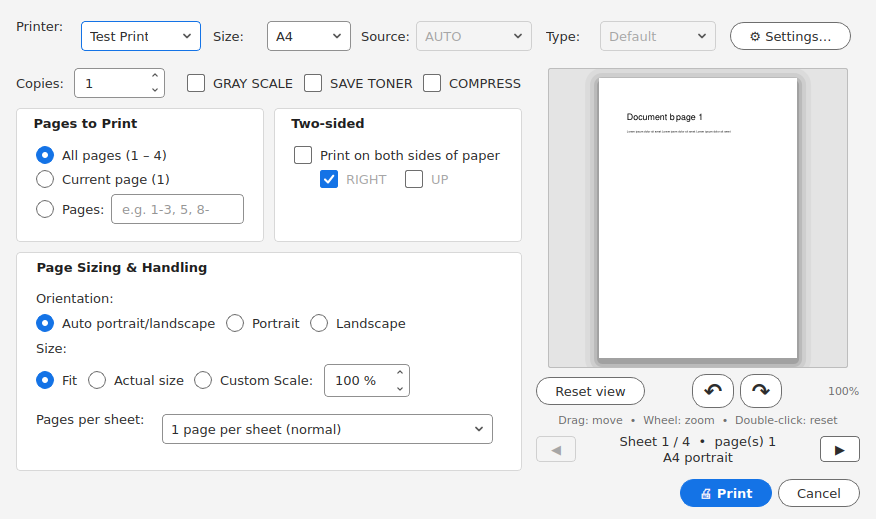
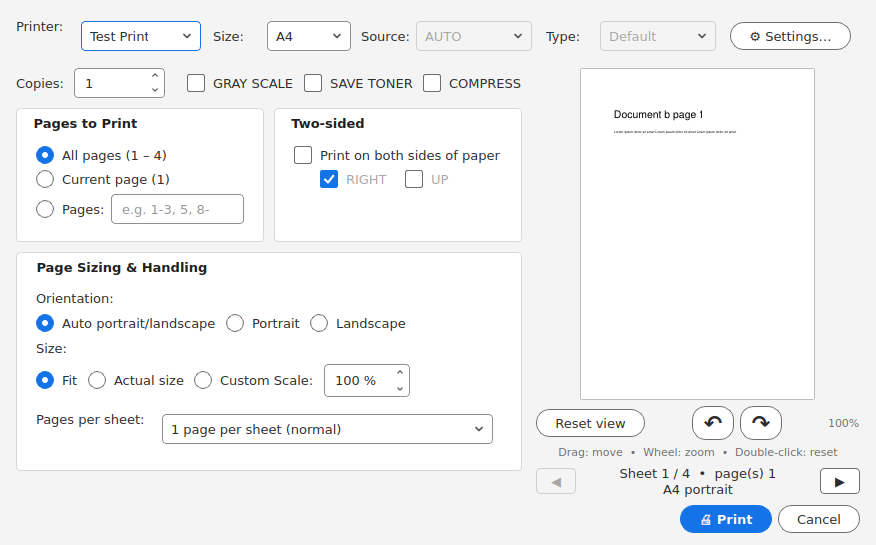
Print preview: frame always has the sheet's proportions so zoom and drag match the page; fixed preview area keeps the dialog size stable

diff --git a/docs/index.html b/docs/index.html
@@ -149,7 +149,7 @@ footer a{color:var(--muted)}
             <li><strong>Modes:</strong> save toner and grayscale. Drag the preview to nudge the content on the sheet and use the mouse wheel to zoom in on it.</li>
           </ul>
         </div>
-        <div class="frame"><img id="shot-print" src="assets/dark-print.png" loading="lazy" width="876" height="519" alt="The compact print dialog with printer, size, source and type in one row, page and two-sided settings, and a live page preview"></div>
+        <div class="frame"><img id="shot-print" src="assets/dark-print.png" loading="lazy" width="876" height="545" alt="The compact print dialog with printer, size, source and type in one row, page and two-sided settings, and a live page preview"></div>
       </div>
     </section>
 

diff --git a/pdf_studio.py b/pdf_studio.py
@@ -1556,7 +1556,7 @@ class RadioChoice(QObject):
 
 
 class PrintDialog(DarkTitleBarMixin, QDialog):
-    PW, PH = 300, 300                                      # preview size (compact, landscape dialog)
+    PW, PH = 300, 330                                      # preview size (compact, landscape dialog)
 
     def __init__(self, parent, doc, cur, preset=None, initial_preferences=None):
         super().__init__(parent)
@@ -1567,6 +1567,7 @@ class PrintDialog(DarkTitleBarMixin, QDialog):
         self.ox_mm, self.oy_mm, self._k = 0.0, 0.0, 1.0     # manual pan offset + last preview scale
         self.image_rotation = 0                               # image rotation, independent of paper orientation
         self.zoom = 1.0                                       # preview zoom (mouse wheel), 1.0 = fit
+        self._fw, self._fh = self.PW, self.PH                 # preview frame = the sheet's own proportions
         self._printer_options_touched = False
 
         names = QPrinterInfo.availablePrinterNames()
@@ -1777,7 +1778,7 @@ class PrintDialog(DarkTitleBarMixin, QDialog):
         left.addStretch(1)
 
         self.lbl_pv = PreviewLabel()
-        self.lbl_pv.setFixedSize(self.PW, self.PH)
+        self.lbl_pv.setFixedSize(self.PW + 2, self.PH + 2)
         self.lbl_pv.setAlignment(Qt.AlignmentFlag.AlignCenter)
         self.lbl_pv.setStyleSheet(f"background:{T['CANVAS']};border:1px solid {T['LINE2']};"
                                   f"border-radius:2px;color:{T['TEXT']}")
@@ -1816,7 +1817,12 @@ class PrintDialog(DarkTitleBarMixin, QDialog):
         right = QVBoxLayout()
         right.setContentsMargins(0, 0, 0, 0)
         right.setSpacing(6)
-        right.addWidget(self.lbl_pv, 0, Qt.AlignmentFlag.AlignHCenter)
+        pv_box = QWidget()                                       # fixed area; the frame inside follows the sheet's shape
+        pv_box.setFixedSize(self.PW + 2, self.PH + 2)
+        pv_lay = QVBoxLayout(pv_box)
+        pv_lay.setContentsMargins(0, 0, 0, 0)
+        pv_lay.addWidget(self.lbl_pv, 0, Qt.AlignmentFlag.AlignCenter)
+        right.addWidget(pv_box, 0, Qt.AlignmentFlag.AlignHCenter)
         right.addLayout(rotate_row)
         right.addWidget(lbl_hint)
         right.addLayout(nav)
@@ -2389,7 +2395,7 @@ class PrintDialog(DarkTitleBarMixin, QDialog):
         f.setPointSize(8)
         p.setFont(f)
         bw, bh = 52, 18
-        br = QRectF(self.PW - bw - 8, self.PH - bh - 8, bw, bh)
+        br = QRectF(self._fw - bw - 8, self._fh - bh - 8, bw, bh)
         p.setPen(Qt.PenStyle.NoPen)
         p.setBrush(QColor("#ff9f1c") if back else QColor("#1473E6"))
         p.drawRoundedRect(br, 9, 9)
@@ -2425,10 +2431,15 @@ class PrintDialog(DarkTitleBarMixin, QDialog):
         pw, ph = (ps.height(), ps.width()) if ls else (ps.width(), ps.height())
         duplex = self.duplex_value()
         back = duplex != "none" and self.pv % 2 == 1
-        pad = 20 if duplex == "none" else 84                               # extra room for the curl
-        k = min((self.PW - pad) / pw, (self.PH - pad) / ph) * self.zoom    # preview px per point
+        # the frame always has the printed sheet's proportions (A4 portrait, landscape, custom size ...),
+        # so what you drag and zoom matches the page exactly
+        fit = min(self.PW / pw, self.PH / ph)
+        self._fw, self._fh = max(1, round(pw * fit)), max(1, round(ph * fit))
+        self.lbl_pv.setFixedSize(self._fw + 2, self._fh + 2)
+        pad = 0 if duplex == "none" else 64                                # extra room for the curl
+        k = min((self._fw - pad) / pw, (self._fh - pad) / ph) * self.zoom  # preview px per point
         self._k = k
-        ox, oy = (self.PW - pw * k) / 2, (self.PH - ph * k) / 2             # centred; overflow is clipped
+        ox, oy = (self._fw - pw * k) / 2, (self._fh - ph * k) / 2          # centred; overflow is clipped
         self.lbl_zoom.setText(f"{round(self.zoom * 100)}%")
         m = PRINT_MARGIN_MM / 25.4 * 72
         aw, ah = pw - 2 * m, ph - 2 * m
@@ -2466,7 +2477,7 @@ class PrintDialog(DarkTitleBarMixin, QDialog):
         pp.end()
 
         # 2) put it on the preview canvas (flat, or bent towards the flip edge for two-sided)
-        pm = QPixmap(self.PW, self.PH)
+        pm = QPixmap(self._fw, self._fh)
         pm.fill(Qt.GlobalColor.transparent)
         p = QPainter(pm)
         p.setRenderHint(QPainter.RenderHint.SmoothPixmapTransform, True)
